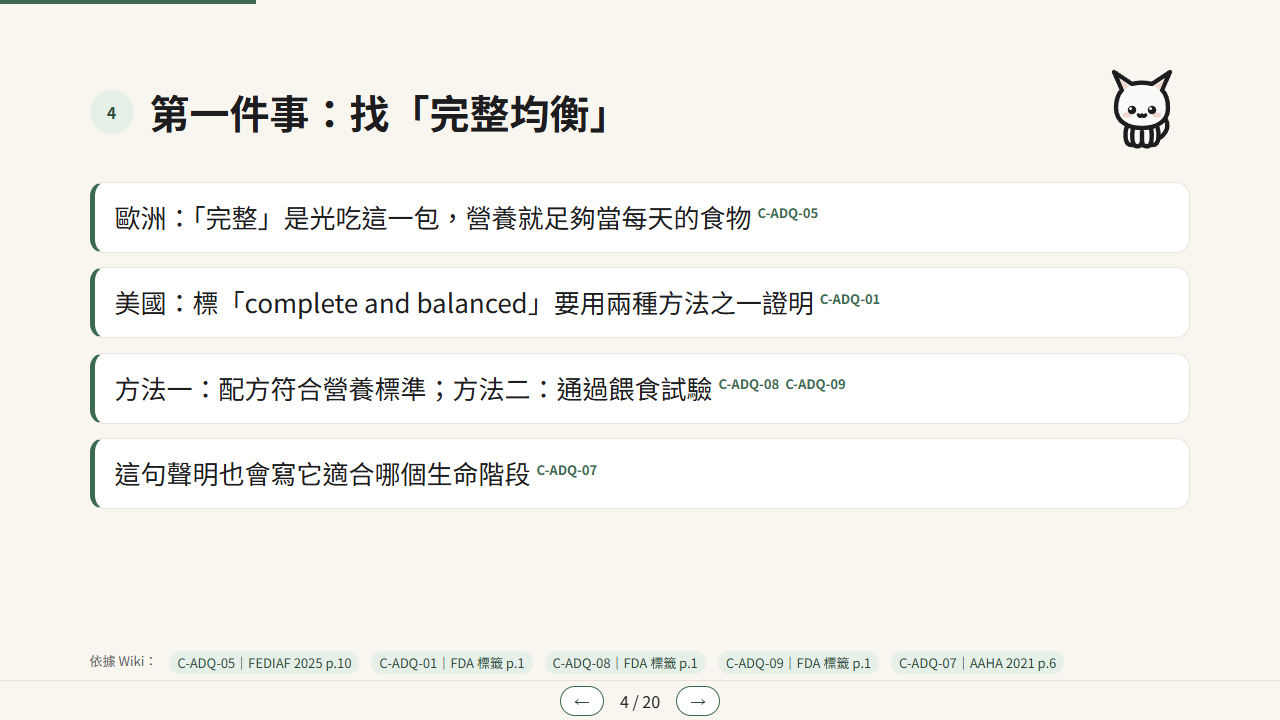
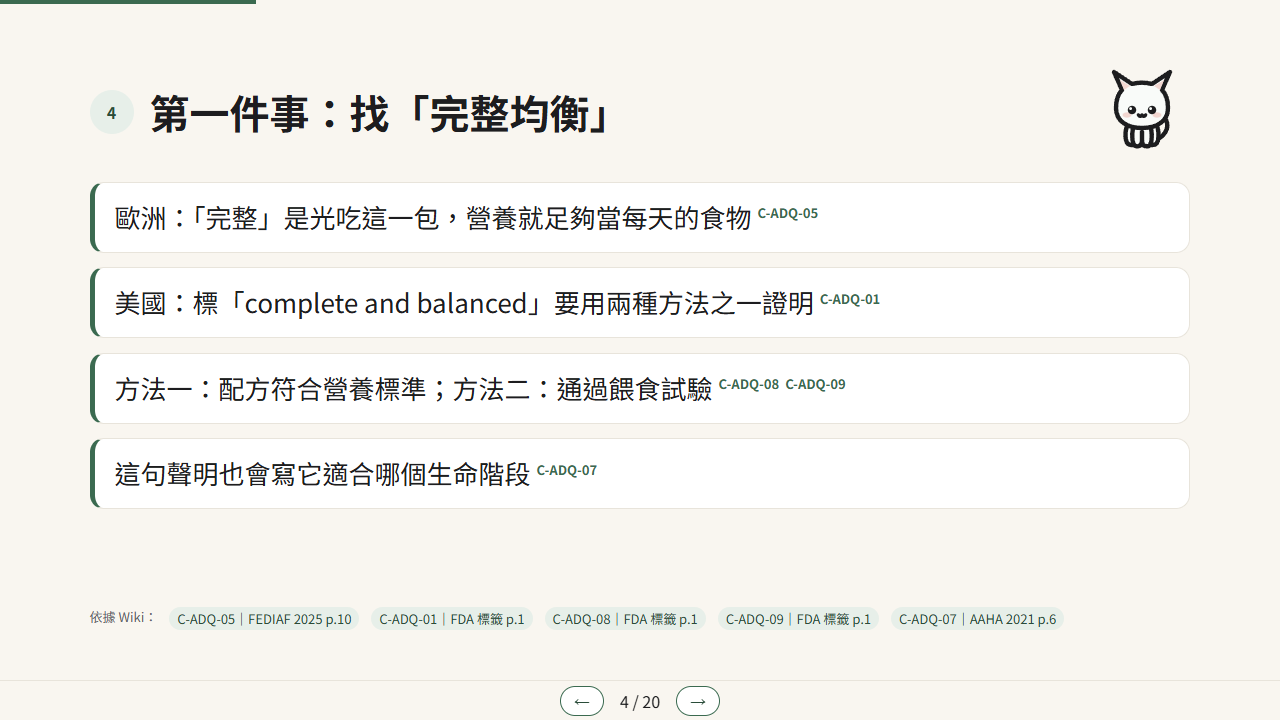
產出: 第 9 輪審查實質 0，重新產出與截圖，停在 H3

diff --git a/docs/index.html b/docs/index.html
@@ -21,7 +21,7 @@ h2{font-size:clamp(22px,3.6vw,40px);margin:0;flex:1;line-height:1.3;text-wrap:ba
 .points li{background:var(--card);border:1px solid var(--border);border-left:5px solid var(--primary);border-radius:14px;
 padding:clamp(12px,2vh,20px) 20px;font-size:clamp(17px,2.2vw,26px);line-height:1.55}
 .ref{font-size:.5em;color:var(--primary);margin-left:6px;vertical-align:super;font-weight:700;white-space:nowrap}
-.refs{position:absolute;left:clamp(20px,7vw,110px);right:clamp(20px,7vw,110px);bottom:46px;display:flex;flex-wrap:wrap;gap:6px 12px;font-size:13px;color:var(--muted)}
+.refs{margin-top:auto;padding-top:14px;display:flex;flex-wrap:wrap;gap:6px 12px;font-size:13px;color:var(--muted)}
 .refs a{color:var(--deep);text-decoration:none;background:var(--pale);padding:2px 8px;border-radius:999px}
 .title-slide{align-items:center;justify-content:center;text-align:center}
 .title-slide .cat{width:clamp(120px,18vw,200px)}
@@ -34,12 +34,28 @@ padding:clamp(12px,2vh,20px) 20px;font-size:clamp(17px,2.2vw,26px);line-height:1
 .node:not(:last-child)::after{content:" →";color:var(--gold)}
 .node.a{background:var(--pale)}.node.h{background:#f6ecd2;border-color:var(--gold)}
 .nb{display:inline-block;max-width:100%}
+.quiz{display:grid;gap:14px;max-width:1100px;margin-bottom:12px}
+.qcard{perspective:1400px}
+.qinner{display:grid;transition:transform .5s;transform-style:preserve-3d}
+.qcard.flipped .qinner{transform:rotateY(180deg)}
+.qface{grid-area:1/1;backface-visibility:hidden;-webkit-backface-visibility:hidden;background:var(--card);border:1px solid var(--border);border-left:5px solid var(--primary);border-radius:14px;padding:14px 18px}
+.qback{transform:rotateY(180deg);display:flex;flex-direction:column;gap:6px}
+.qtext{margin:0 0 10px;font-size:clamp(16px,2vw,22px);line-height:1.5}
+.opts{display:flex;flex-wrap:wrap;gap:8px}
+.opt,.again{font:inherit;font-size:clamp(15px,1.7vw,19px);min-height:44px;padding:6px 14px;border:1px solid var(--primary);border-radius:999px;background:var(--card);color:var(--deep);cursor:pointer}
+.opt:hover,.opt:focus-visible,.again:hover,.again:focus-visible{background:var(--pale)}
+.again{align-self:flex-start}
+.verdict{margin:0;font-size:clamp(18px,2.2vw,24px);font-weight:700}
+.qcard.right .verdict{color:var(--primary)} .qcard.right .qback{border-left-color:var(--primary);background:var(--pale)}
+.qcard.wrong .verdict{color:#8a5a00} .qcard.wrong .qback{border-left-color:var(--gold);background:#fbf3df}
+.answer,.why{margin:0;font-size:clamp(15px,1.8vw,20px);line-height:1.55}
+@media (prefers-reduced-motion:reduce){.qinner{transition:none}}
 .note{display:none;margin-top:18px;padding:12px 16px;border-radius:12px;background:#f6ecd2;color:var(--text2);font-size:15px;max-width:1100px}
 .show-notes .note{display:block}
 nav{position:fixed;left:0;right:0;bottom:0;height:40px;display:flex;align-items:center;justify-content:center;gap:16px;background:rgba(249,246,240,.92);border-top:1px solid var(--border);z-index:5}
 nav button{border:1px solid var(--primary);background:var(--card);color:var(--deep);border-radius:999px;min-width:44px;height:30px;font-size:16px;cursor:pointer}
 .bar{position:fixed;left:0;top:0;height:4px;background:var(--primary);transition:width .2s;z-index:6}
-@media (max-width:640px){.points li{border-left-width:4px}.refs{position:static;margin-top:18px}.slide{padding-bottom:60px}}
+@media (max-width:640px){.points li{border-left-width:4px}.refs{margin-top:18px}.slide{padding-bottom:60px}}
 @media print{.slide{display:flex!important;position:relative;page-break-after:always;height:100vh}nav,.bar{display:none}}
 </style></head>
 <body><div class="bar"></div><main class="deck"><section class="slide title-slide" data-i="1"><svg class="cat" aria-hidden="true" xmlns="http://www.w3.org/2000/svg" viewBox="0 0 48 48" fill="none" stroke="currentColor" stroke-width="2.2" stroke-linecap="round" stroke-linejoin="round">
@@ -68,7 +84,7 @@ nav button{border:1px solid var(--primary);background:var(--card);color:var(--de
                         <path d="M 22 25 Q 24 23.5 26 25" stroke-width="1.8"/>
                     </g>
                 </g>
-            </svg></header><ul class="points"><li>認識貓：嚴格肉食、常吃、單獨吃</li><li>怎麼選：完整均衡、生命階段、副食和零食</li><li>看標籤：產品名稱、成分表、乾糧和罐頭、碳水</li><li>怎麼餵：一天吃多少、看體態、怎麼餵</li><li>挑品牌：問廠商</li></ul><footer class="refs"><span>依據 Wiki：</span></footer><aside class="note">這一頁是目錄，沒有新的事實。結尾前有三題小測驗。</aside></section><section class="slide" data-i="3"><header><span class="num">3</span><h2><span class="nb">先認識貓：</span><span class="nb">嚴格肉食，</span><span class="nb">喜歡常吃、</span><span class="nb">單獨吃</span></h2><svg class="cat" aria-hidden="true" xmlns="http://www.w3.org/2000/svg" viewBox="0 0 48 48" fill="none" stroke="currentColor" stroke-width="2.2" stroke-linecap="round" stroke-linejoin="round">
+            </svg></header><ul class="points"><li>認識貓：嚴格肉食、常吃、單獨吃</li><li>怎麼選：完整均衡、生命階段、副食和零食</li><li>看標籤：產品名稱、成分表、乾糧和罐頭、碳水</li><li>怎麼餵：一天吃多少、看體態、怎麼餵</li><li>挑品牌：問廠商</li></ul><aside class="note">這一頁是目錄，沒有新的事實。結尾前有三題小測驗。</aside></section><section class="slide" data-i="3"><header><span class="num">3</span><h2><span class="nb">先認識貓：</span><span class="nb">嚴格肉食，</span><span class="nb">喜歡常吃、</span><span class="nb">單獨吃</span></h2><svg class="cat" aria-hidden="true" xmlns="http://www.w3.org/2000/svg" viewBox="0 0 48 48" fill="none" stroke="currentColor" stroke-width="2.2" stroke-linecap="round" stroke-linejoin="round">
                 <g class="anim-peek" style="transform-origin: 24px 30px;">
                     <path d="M 13 36 L 13 28 C 13 24, 14 21, 15 19 L 13 10 L 20 15 C 22.5 14.5, 25.5 14.5, 28 15 L 35 10 L 33 19 C 34 21, 35 24, 35 28 L 35 36" fill="var(--cat-white)"/>
                     <ellipse cx="17.5" cy="25.5" rx="2.2" ry="1.3" fill="var(--cat-blush)" stroke="none"/>
@@ -287,7 +303,7 @@ nav button{border:1px solid var(--primary);background:var(--card);color:var(--de
                 <line x1="39" y1="29" x2="40" y2="29" />
                 <path d="M 17 37 C 17 34.5, 20.5 34.5, 20.5 37" fill="var(--cat-white)"/>
                 <path d="M 27.5 37 C 27.5 34.5, 31 34.5, 31 37" fill="var(--cat-white)"/>
-            </svg></header><ul class="points"><li>美國規則：「含鮪魚的貓糧」和「鮪魚貓糧」，鮪魚至少各要多少？<sup class="ref">C-LBL-03</sup><sup class="ref">C-LBL-01</sup></li><li>罐頭蛋白質 8%、水分 75%；乾糧 27%、水分 10%。換成乾物誰高？<sup class="ref">C-DM-03</sup><sup class="ref">C-DM-06</sup></li><li>零食最多能佔總飲食的多少？<sup class="ref">C-TRT-01</sup></li></ul><footer class="refs"><span>依據 Wiki：</span><a href="https://github.com/Chen-MouChin/cat-food-wiki/blob/main/wiki/sources/FDA-PET-FOOD-LABELS-GENERAL.md" target="_blank" rel="noopener">C-LBL-03｜FDA 標籤 p.1</a><a href="https://github.com/Chen-MouChin/cat-food-wiki/blob/main/wiki/sources/FDA-PET-FOOD-LABELS-GENERAL.md" target="_blank" rel="noopener">C-LBL-01｜FDA 標籤 p.1</a><a href="https://github.com/Chen-MouChin/cat-food-wiki/blob/main/wiki/sources/FDA-PET-FOOD-LABELS-GENERAL.md" target="_blank" rel="noopener">C-DM-03｜FDA 標籤 p.1</a><a href="https://github.com/Chen-MouChin/cat-food-wiki/blob/main/wiki/sources/FDA-PET-FOOD-LABELS-GENERAL.md" target="_blank" rel="noopener">C-DM-06｜FDA 標籤 p.1</a><a href="https://github.com/Chen-MouChin/cat-food-wiki/blob/main/wiki/sources/AAFP-NUTRITION-2018.md" target="_blank" rel="noopener">C-TRT-01｜AAFP 2018 p.2</a></footer><aside class="note">答案：1. 含鮪魚的貓糧只要 3%，鮪魚貓糧要 95%。2. 罐頭 32%、乾糧 30%，罐頭比較高。3. 不超過 10%。</aside></section><section class="slide" data-i="18"><header><span class="num">18</span><h2><span class="nb">總結：</span><span class="nb">買貓糧前的檢查清單</span></h2><svg class="cat" aria-hidden="true" xmlns="http://www.w3.org/2000/svg" viewBox="0 0 48 48" fill="none" stroke="currentColor" stroke-width="2.2" stroke-linecap="round" stroke-linejoin="round">
+            </svg></header><div class="quiz"><div class="qcard"><div class="qinner"><div class="qface qfront"><p class="qtext"><b>第 1 題</b>　美國規則：「含鮪魚的貓糧」和「鮪魚貓糧」，鮪魚至少各要多少？<sup class="ref">C-LBL-03</sup><sup class="ref">C-LBL-01</sup></p><div class="opts"><button type="button" class="opt" data-ok="0">A. 兩個都要 95%</button><button type="button" class="opt" data-ok="1">B. 含鮪魚的貓糧 3%，鮪魚貓糧 95%</button><button type="button" class="opt" data-ok="0">C. 含鮪魚的貓糧 25%，鮪魚貓糧 95%</button></div></div><div class="qface qback" aria-live="polite"><p class="verdict"></p><p class="answer">正確答案：B. 含鮪魚的貓糧 3%，鮪魚貓糧 95%</p><p class="why">名稱寫「含」只要 3%；直接叫「鮪魚貓糧」要 95%（不算加工用水）。25% 是「鮪魚晚餐」這類名稱的門檻<sup class="ref">C-LBL-03</sup><sup class="ref">C-LBL-01</sup><sup class="ref">C-LBL-02</sup></p><button type="button" class="again">再答一次</button></div></div></div><div class="qcard"><div class="qinner"><div class="qface qfront"><p class="qtext"><b>第 2 題</b>　罐頭蛋白質 8%、水分 75%；乾糧 27%、水分 10%。換成乾物誰高？<sup class="ref">C-DM-03</sup><sup class="ref">C-DM-06</sup></p><div class="opts"><button type="button" class="opt" data-ok="0">A. 乾糧，因為 27% 比 8% 高</button><button type="button" class="opt" data-ok="1">B. 罐頭，換成乾物是 32% 對 30%</button><button type="button" class="opt" data-ok="0">C. 一樣高</button></div></div><div class="qface qback" aria-live="polite"><p class="verdict"></p><p class="answer">正確答案：B. 罐頭，換成乾物是 32% 對 30%</p><p class="why">罐頭乾物 25%，8 ÷ 25 × 100 = 32%；乾糧乾物 90%，27 ÷ 90 × 100 = 30%<sup class="ref">C-DM-02</sup><sup class="ref">C-DM-03</sup><sup class="ref">C-DM-06</sup></p><button type="button" class="again">再答一次</button></div></div></div><div class="qcard"><div class="qinner"><div class="qface qfront"><p class="qtext"><b>第 3 題</b>　零食最多能佔總飲食的多少？<sup class="ref">C-TRT-01</sup></p><div class="opts"><button type="button" class="opt" data-ok="1">A. 10%</button><button type="button" class="opt" data-ok="0">B. 25%</button><button type="button" class="opt" data-ok="0">C. 50%</button></div></div><div class="qface qback" aria-live="polite"><p class="verdict"></p><p class="answer">正確答案：A. 10%</p><p class="why">零食不超過總飲食的 10%，零食的熱量也要算進每天的份量<sup class="ref">C-TRT-01</sup></p><button type="button" class="again">再答一次</button></div></div></div></div><footer class="refs"><span>依據 Wiki：</span><a href="https://github.com/Chen-MouChin/cat-food-wiki/blob/main/wiki/sources/FDA-PET-FOOD-LABELS-GENERAL.md" target="_blank" rel="noopener">C-LBL-03｜FDA 標籤 p.1</a><a href="https://github.com/Chen-MouChin/cat-food-wiki/blob/main/wiki/sources/FDA-PET-FOOD-LABELS-GENERAL.md" target="_blank" rel="noopener">C-LBL-01｜FDA 標籤 p.1</a><a href="https://github.com/Chen-MouChin/cat-food-wiki/blob/main/wiki/sources/FDA-PET-FOOD-LABELS-GENERAL.md" target="_blank" rel="noopener">C-DM-03｜FDA 標籤 p.1</a><a href="https://github.com/Chen-MouChin/cat-food-wiki/blob/main/wiki/sources/FDA-PET-FOOD-LABELS-GENERAL.md" target="_blank" rel="noopener">C-DM-06｜FDA 標籤 p.1</a><a href="https://github.com/Chen-MouChin/cat-food-wiki/blob/main/wiki/sources/AAFP-NUTRITION-2018.md" target="_blank" rel="noopener">C-TRT-01｜AAFP 2018 p.2</a><a href="https://github.com/Chen-MouChin/cat-food-wiki/blob/main/wiki/sources/FDA-PET-FOOD-LABELS-GENERAL.md" target="_blank" rel="noopener">C-LBL-02｜FDA 標籤 p.1</a><a href="https://github.com/Chen-MouChin/cat-food-wiki/blob/main/wiki/sources/FDA-PET-FOOD-LABELS-GENERAL.md" target="_blank" rel="noopener">C-DM-02｜FDA 標籤 p.1</a></footer><aside class="note">點選項，卡片會翻面顯示答對或答錯和解析；按「再答一次」翻回來。</aside></section><section class="slide" data-i="18"><header><span class="num">18</span><h2><span class="nb">總結：</span><span class="nb">買貓糧前的檢查清單</span></h2><svg class="cat" aria-hidden="true" xmlns="http://www.w3.org/2000/svg" viewBox="0 0 48 48" fill="none" stroke="currentColor" stroke-width="2.2" stroke-linecap="round" stroke-linejoin="round">
                 <path class="anim-tail" style="transform-origin: 32px 38px;" d="M 32 38 C 40 38, 43 31, 39 26 C 37 24, 35 26, 36 29" />
                 <path d="M 16.5 26 C 13.5 31, 13.5 40, 18 40 L 30 40 C 34.5 40, 34.5 31, 31.5 26" fill="var(--cat-white)"/>
                 <path d="M 19 30 C 18 34, 18 40.8, 21 40.8 C 23.2 40.8, 24 39.5, 24 38 C 24 39.5, 24.8 40.8, 27 40.8 C 30 40.8, 30 34, 29 30" fill="var(--cat-white)"/>
@@ -307,7 +323,14 @@ const S=[...document.querySelectorAll('.slide')],bar=document.querySelector('.ba
 let i=Math.max(0,Math.min(S.length-1,(parseInt(location.hash.slice(1))||1)-1));
 function go(n){i=Math.max(0,Math.min(S.length-1,n));S.forEach((s,k)=>s.classList.toggle('on',k===i));
 bar.style.width=((i+1)/S.length*100)+'%';cnt.textContent=(i+1)+' / '+S.length;history.replaceState(null,'','#'+(i+1));}
-document.addEventListener('keydown',e=>{if(['ArrowRight','PageDown',' '].includes(e.key)){e.preventDefault();go(i+1)}
+document.querySelectorAll('.qcard').forEach(c=>{const v=c.querySelector('.verdict');
+c.querySelectorAll('.opt').forEach(b=>b.onclick=()=>{const ok=b.dataset.ok==='1';c.classList.remove('right','wrong');
+c.classList.add('flipped',ok?'right':'wrong');v.textContent=(ok?'答對了！':'答錯了')+'　你選的是 '+b.textContent;
+c.querySelector('.qfront').setAttribute('aria-hidden','true');c.querySelector('.qback').removeAttribute('aria-hidden');c.querySelector('.again').focus()});
+c.querySelector('.qback').setAttribute('aria-hidden','true');
+c.querySelector('.again').onclick=()=>{c.classList.remove('flipped');c.querySelector('.qfront').removeAttribute('aria-hidden');
+c.querySelector('.qback').setAttribute('aria-hidden','true');c.querySelector('.opt').focus()}});
+document.addEventListener('keydown',e=>{if(e.target.closest&&e.target.closest('button')&&[' ','Enter'].includes(e.key))return;if(['ArrowRight','PageDown',' '].includes(e.key)){e.preventDefault();go(i+1)}
 else if(['ArrowLeft','PageUp'].includes(e.key)){e.preventDefault();go(i-1)}else if(e.key==='n'||e.key==='N'){document.body.classList.toggle('show-notes')}});
 document.querySelector('.prev').onclick=()=>go(i-1);document.querySelector('.next').onclick=()=>go(i+1);
 let x0=null;document.addEventListener('touchstart',e=>{x0=e.touches[0].clientX},{passive:true});

diff --git a/runs/gates/H3_2026-11-20-2.md b/runs/gates/H3_2026-11-20-2.md
@@ -1,0 +1,93 @@
+# H3 人工審核最終成果（執行 2026-11-20-2）
+
+請看成果本身：簡報（直接開 `docs/index.html`，按 N 看講者備註）、截圖，以及下面這次執行的摘要。
+截圖在 `runs/shots/2026-11-20-2/`（23 張）。
+「判定：」填 **OK**，或 **NG 內容 原因**（退回 S8）、**NG Wiki 原因**（退回 S3）、**NG 版面 原因**（退回 S11）。
+
+這次執行經過的節點：
+
+| 時間 | 節點 | 類型 | 結果 | 下一步 | 說明 |
+|---|---|---|---|---|---|
+| 2026-11-20 10:28 | H0 人工審核流程框架 | human | OK | S0 | runs/gates/H0_2026-11-20-2.md |
+| 2026-11-20 10:28 | S0 討論範圍與來源 | agent | 完成 | S1 | 主題、聽眾、來源沿用 11/19 的討論（wiki/log.md 第一筆）；這次沒有新主題或新來源 |
+| 2026-11-20 10:28 | S1 取得原文 | agent | 完成 | S2 | 9 份原文已在 raw/，不重抓 |
+| 2026-11-20 10:28 | S2 抽逐頁文字 | auto | OK | S3 | 逐頁文字 9 份 |
+| 2026-11-20 10:28 | S3 Ingest 寫主張 | agent | 完成 | S4 | 主張 61 條，這次沒有新增或修改 |
+| 2026-11-20 10:28 | S4 Wiki 檢查 lint | auto | OK | S5 | 主張 61 條，原句比對成功 61 條；FAIL 0，WARN 0 |
+| 2026-11-20 10:28 | S5 AI 逐條對照意思 | agent | 完成 | S6 | 沿用 11/19 的逐條對照（runs/lint_04_semantic_fix.txt）；此後主張沒有再改 |
+| 2026-11-20 10:28 | S6 整理主題頁 | agent | 完成 | S6L | 主題頁 7 頁，這次沒有修改 |
+| 2026-11-20 10:28 | S6L 主題頁檢查 lint | auto | OK | S7 | 主張 61 條，原句比對成功 61 條；FAIL 0，WARN 0 |
+| 2026-11-20 10:28 | S7 查 Wiki 排大綱 | agent | 完成 | S8 | outline.md 沿用，這次沒有修改 |
+| 2026-11-20 10:28 | S8 生成簡報 | agent | 完成 | S9 | deck.md 沿用審查第 4 輪後的版本，這次沒有修改 |
+| 2026-11-20 10:28 | S9 簡報檢查 | auto | OK | S10 | 簡報 18 頁，引用 53 條主張（Wiki 共 61 條）；FAIL 0 |
+| 2026-11-20 10:28 | S10 獨立審查 agent | agent | FAIL：實質問題：Wiki 缺資料 | S3 | runs/review_05.md：實質 8、輕微 24 |
+| 2026-11-20 10:30 | S3 Ingest 寫主張 | agent | 完成 | S4 | 依審查第 5 輪改 C-FEED-01、C-LBL-06、C-BRD-01～03（實質）與 C-LBL-03、C-ADQ-04、C-CARB-06、C-KCAL-02、C-BCS-01（輕微）；新增 C-LBL-07、08（FDA 肉粉與乾物比較）、C-BCS-07～09（WSAVA 2011 體態評分） |
+| 2026-11-20 10:30 | S4 Wiki 檢查 lint | auto | FAIL：原句對不到／數字不一致 | S3 | C-BCS-07 原句在 p.3，不是 p.2；C-BCS-08 原句在 p.3，不是 p.2；C-BCS-09 原句在 p.3，不是 p.2 |
+| 2026-11-20 10:30 | S3 Ingest 寫主張 | agent | 完成 | S4 | C-BCS-07～09 頁碼改成 p.3（WSAVA 2011 的 BCS 段落在第 3 頁） |
+| 2026-11-20 10:30 | S4 Wiki 檢查 lint | auto | OK | S5 | 主張 66 條，原句比對成功 66 條；FAIL 0，WARN 5 |
+| 2026-11-20 10:30 | S5 AI 逐條對照意思 | agent | FAIL：中文超出原句 | S3 | C-BCS-08：「也就是分數越高越胖」是推論，原句只說有些極度肥胖的病例超過 9/9，而且是「有些」不是全部；C-CARB-06：中文的「依目前發表的證據，看起來」不在引用的原句裡，要把原句往前抄；C-LBL-07：中文用「可能」，原句是在那個例子裡「可以看出」較多，語氣對不上 |
+| 2026-11-20 10:30 | S3 Ingest 寫主張 | agent | 完成 | S4 | 照 S5 改 C-BCS-08（刪推論、改成「有些」）、C-CARB-06（原句往前抄到 Based on currently published evidence）、C-LBL-07（語氣對齊原句） |
+| 2026-11-20 10:30 | S4 Wiki 檢查 lint | auto | OK | S5 | 主張 66 條，原句比對成功 66 條；FAIL 0，WARN 5 |
+| 2026-11-20 10:30 | S5 AI 逐條對照意思 | agent | 完成 | S6 | 這次改過與新增的 15 條逐條對照：前一輪的 3 條已修正，其餘中文都在原句範圍內 |
+| 2026-11-20 10:31 | S6 整理主題頁 | agent | 完成 | S6L | 依新主張更新 5 個主題頁：選品牌拿掉題號、肉粉與乾物比較（C-LBL-06～08）、體態評分（C-BCS-07～09）、C-FEED-01、C-CARB-06、C-KCAL-02 的措辭 |
+| 2026-11-20 10:31 | S6L 主題頁檢查 lint | auto | OK | S7 | 主張 66 條，原句比對成功 66 條；FAIL 0，WARN 0 |
+| 2026-11-20 10:31 | S7 查 Wiki 排大綱 | agent | 完成 | S8 | outline 第 8 頁加 C-LBL-07、08，第 14 頁加 C-BCS-07～09（query_wiki.py 查「肉粉 乾物」「體態 脂肪」） |
+| 2026-11-20 10:32 | S8 生成簡報 | agent | 完成 | S9 | 依審查第 5 輪改 12 頁：實質 R1～R4（肉粉、熱量頁、24 小時、附錄流程）＋輕微 R9～R27 中 17 項；附錄流程改由 run_graph 的節點產生 |
+| 2026-11-20 10:32 | S9 簡報檢查 | auto | OK | S10 | 簡報 18 頁，引用 56 條主張（Wiki 共 66 條）；FAIL 0 |
+| 2026-11-20 10:36 | S10 獨立審查 agent | agent | FAIL：實質問題：Wiki 缺資料 | S3 | runs/review_05.md：實質 8、輕微 24 |
+| 2026-11-20 10:37 | S10 獨立審查 agent | agent | 撤銷上一筆 | S10 | 10:36 那筆是第 5 輪審查 agent 誤用舊審查檔（review_05，審的是修改前的簡報）標記的；撤銷，S10→S3 次數改回 1，改用審新版的 review_06 |
+| 2026-11-20 10:37 | S10 獨立審查 agent | agent | FAIL：實質問題：Wiki 缺資料 | S3 | runs/review_06.md：實質 4、輕微 23 |
+| 2026-11-20 10:38 | S3 Ingest 寫主張 | agent | 完成 | S4 | 依審查第 6 輪：C-BCS-08 補但書（沒有驗證過超過 9 分的系統）；C-KCAL-06、C-BRD-01 原句或中文對齊；C-LBL-08、C-BCS-06、C-FEED-06 措辭；新增 C-DM-07（比較要同水分基礎）、C-CARB-09（歐盟標籤）、C-CARB-10（灰分）、C-FEED-09（益智餵食器是什麼） |
+| 2026-11-20 10:38 | S4 Wiki 檢查 lint | auto | OK | S5 | 主張 70 條，原句比對成功 70 條；FAIL 0，WARN 4 |
+| 2026-11-20 10:38 | S5 AI 逐條對照意思 | agent | 完成 | S6 | 這次改過與新增的 9 條逐條對照，中文都在原句範圍內 |
+| 2026-11-20 10:38 | S6 整理主題頁 | agent | 完成 | S6L | 主題頁：放入 C-DM-07、C-CARB-09、10、C-FEED-09；照審查第 6 輪拿掉沒有出處的「現名 FelineVMA」「公式不同」「名稱差一個字」與碳水頁最後一句，砂盆改放在「餵食點」小節 |
+| 2026-11-20 10:38 | S6L 主題頁檢查 lint | auto | OK | S7 | 主張 70 條，原句比對成功 70 條；FAIL 0，WARN 0 |
+| 2026-11-20 10:39 | S7 查 Wiki 排大綱 | agent | 完成 | S8 | outline 第 9 頁加 C-DM-07、第 11 頁加 C-CARB-09、10、第 15 頁加 C-FEED-09 |
+| 2026-11-20 10:39 | S8 生成簡報 | agent | 完成 | S9 | 依審查第 6 輪改 11 頁：實質 R1（4 公斤條件）、R2（9 分但書）；輕微：美國／歐洲／歐盟標示、處方食品例外、機構全名、FDA 例子寫進備註、灰分、益智餵食器、營養專家資格、附錄說明 |
+| 2026-11-20 10:39 | S9 簡報檢查 | auto | OK | S10 | 簡報 18 頁，引用 60 條主張（Wiki 共 70 條）；FAIL 0 |
+| 2026-11-20 10:45 | S10 獨立審查 agent | agent | FAIL：實質問題：Wiki 缺資料 | S3 | runs/review_07.md：實質 1、輕微 18 |
+| 2026-11-20 10:45 | S3 Ingest 寫主張 | agent | 完成 | S4 | 依審查第 7 輪：新增 C-LBL-09（FDA 例子的兩款成分表設定）；C-LBL-07 改成「對手那款／第一款」；C-FEED-09「推」改「撥弄」；主題頁 4 處措辭對齊主張 |
+| 2026-11-20 10:45 | S4 Wiki 檢查 lint | auto | OK | S5 | 主張 71 條，原句比對成功 71 條；FAIL 0，WARN 1 |
+| 2026-11-20 10:45 | S5 AI 逐條對照意思 | agent | 完成 | S6 | C-LBL-09、C-LBL-07、C-FEED-09 逐條對照，中文都在原句範圍內 |
+| 2026-11-20 10:45 | S6 整理主題頁 | agent | 完成 | S6L | reading-labels 加 C-LBL-09 的例子設定、C-LBL-07／08 改成「對手那款」；choosing-a-brand、calories、complete-and-balanced 措辭對齊主張 |
+| 2026-11-20 10:45 | S6L 主題頁檢查 lint | auto | OK | S7 | 主張 71 條，原句比對成功 71 條；FAIL 0，WARN 0 |
+| 2026-11-20 10:46 | S7 查 Wiki 排大綱 | agent | 完成 | S8 | outline 第 8 頁加 C-LBL-09，第 18 頁加 C-DM-07 |
+| 2026-11-20 10:46 | S8 生成簡報 | agent | 完成 | S9 | 依審查第 7 輪：第 8 頁 FDA 例子改用 C-LBL-09 當出處；AAFP 補適用對象；乾糧定義標 FEDIAF；第 16 頁標題；第 18 頁改引 C-DM-07；附錄與流程圖圖例用語 |
+| 2026-11-20 10:46 | S9 簡報檢查 | auto | OK | S10 | 簡報 18 頁，引用 61 條主張（Wiki 共 71 條）；FAIL 0 |
+| 2026-11-20 10:52 | S10 獨立審查 agent | agent | OK（實質 0、輕微 23） | S11 | runs/review_08.md |
+| 2026-11-20 10:52 | S11 產出 HTML | auto | OK | S12 | 完成：docs/index.html，20 頁（含出處、流程兩頁附錄），引用 61 條主張 |
+| 2026-11-20 10:52 | S12 截圖 電腦/手機 | auto | OK | H3 | 23 張截圖存在 runs/shots/2026-11-20-2/ |
+| 2026-11-20 11:10 | H3 人工審核最終成果 | human | FAIL：不通過：內容 | S8 | NG 內容 小測驗列了選項但沒有互動，應該要點選之後能翻轉，得到正確與否以及解析（負責人判定，口頭；agent 照原話寫入） |
+| 2026-11-20 11:12 | S8 生成簡報 | agent | 完成 | S9 | 照 H3 負責人判定：小測驗改成可點選的翻面卡（每題 3 個選項，點了翻面顯示答對／答錯、正確答案和解析，解析附主張編號）；check_slides 加小測驗規則；出處列改成跟在內容後面，修第 17、20 頁重疊；目錄頁不再顯示空的出處列 |
+| 2026-11-20 11:12 | S9 簡報檢查 | auto | OK | S10 | 簡報 18 頁，引用 61 條主張（Wiki 共 71 條）；FAIL 0 |
+| 2026-11-20 11:19 | S10 獨立審查 agent | agent | OK（實質 0、輕微 10） | S11 | runs/review_09.md |
+| 2026-11-20 11:19 | S11 產出 HTML | auto | OK | S12 | 完成：docs/index.html，20 頁（含出處、流程兩頁附錄），引用 61 條主張 |
+| 2026-11-20 11:20 | S12 截圖 電腦/手機 | auto | OK | H3 | 23 張截圖存在 runs/shots/2026-11-20-2/ |
+
+### [PUBLISH] 這一版可以發佈嗎？
+
+- desktop_01.png
+- desktop_02.png
+- desktop_03.png
+- desktop_04.png
+- desktop_05.png
+- desktop_06.png
+- desktop_07.png
+- desktop_08.png
+- desktop_09.png
+- desktop_10.png
+- desktop_11.png
+- desktop_12.png
+- desktop_13.png
+- desktop_14.png
+- desktop_15.png
+- desktop_16.png
+- desktop_17.png
+- desktop_18.png
+- desktop_19.png
+- desktop_20.png
+- mobile_01.png
+- mobile_02.png
+- mobile_17.png
+
+判定：

diff --git a/runs/review_09.md b/runs/review_09.md
@@ -1,0 +1,38 @@
+# 獨立審查 第 9 輪（2026-11-20，H3 退回第 17 頁小測驗之後）
+
+審查者沒有參與撰寫。這一輪沒有修改任何既有檔案，本檔是唯一新建在專案裡的檔案；沒有直接執行 scripts/ 裡的程式，也沒有碰 run_graph.py 的流程。
+
+做法：
+- 內容：逐題讀 slides/deck.md 第 17 頁的題目、選項、正確答案和解析，對照 slides/outline.md 第 17 列，以及 wiki/sources/ 的 C-LBL-01～03、C-DM-02、03、06、C-TRT-01。再回 raw/FDA-PET-FOOD-LABELS-GENERAL.txt p.1（95%、25%、"with" 3% 三條命名規則和乾物換算的例子）和 raw/AAFP-NUTRITION-2018.txt p.2（零食 10%）看上下文。也確認三題分別只考第 7、10、6 頁教過的內容。
+- 程式：讀 scripts/check_slides.py 的 parse_deck()、run() 的小測驗規則，以及 scripts/build_slides.py 的 slide_html()、quiz_card()、CSS 和 JS。
+- 實測：在 scratchpad 寫了一支小程式 import build_slides，把 DOCS 改到 scratchpad\review9\ 再呼叫 main()，產生 HTML。main() 會先跑 lint_wiki.run()（沒有加 write_json，所以不會寫 runs/last_lint.json）和 check_slides.run()，結果是 FAIL 0，20 頁。接著用 Edge 無頭模式加上 DevTools 協定，送出真的滑鼠、觸控和鍵盤事件，測了這些項目：
+  - 點選項：答對、答錯都會翻面，顏色和文字都對。
+  - 「再答一次」能翻回來，焦點會回到 A。
+  - 在選項或按鈕上按空白鍵、Enter 不會換頁；焦點不在按鈕上時，空白鍵和方向鍵照常換頁。
+  - Tab 和 Shift+Tab 的焦點順序。
+  - 無障礙樹（accessibility tree）。
+  - 開啟減少動畫後 transition 是 0s，翻面正常。
+  - 手機 390×844 用觸控點選、翻面、翻回都正常。
+- 版面：在 1280×900、1366×768、1280×720、1024×768、390×844、360×640 六種尺寸逐頁量測，看各區塊有沒有互相重疊、內容超出多少、出處列和導覽列的距離，並截圖對照。舊的 docs/index.html 只拿來比對出處列以前的 CSS（position:absolute）。
+
+結果：
+- 小測驗三題的題目、正確答案和解析都對得上主張和原文，錯誤選項也沒有「其實也說得通」的情形。
+- 互動功能在滑鼠、觸控、鍵盤下都能正常使用，空白鍵和 Enter 也不會誤換頁。
+- 出處列改成跟在內容後面之後，六種尺寸都沒有區塊互相重疊；以前內容一長就蓋到出處列的問題也沒了。
+- 沒有發現實質問題。下面都是輕微問題，主要是解析對錯誤選項交代得不夠、看不見的那一面仍然拿得到焦點、報讀器不一定念出結果，以及第 17 頁在常見筆電尺寸要捲動。
+- 第 8 輪還沒處理的輕微問題，這一輪沒有重複列出。
+
+## 問題清單
+
+- [R1]（簡報）（輕微）第 17 頁第 2 題解析：只列出換算式，沒有說明為什麼 A「乾糧，因為 27% 比 8% 高」是錯的。標籤百分比含水，罐頭水分多，直接比會低估罐頭。讀者答錯翻面後，只看到一串算式。建議解析加一句「標籤的數字含水，罐頭水分多；要換成同樣的水分基礎再比 {C-DM-07}」，並在大綱第 17 列補上 C-DM-07（加了這句還在 90 字上限內）。
+- [R2]（簡報）（輕微）第 17 頁第 3 題解析：只重述「不超過 10%」，沒有交代 25%、50% 為什麼不對；選 25% 的人可能是跟第 7 頁「鮪魚晚餐 25%」搞混了，解析也沒有點出來。建議加上「WSAVA 也把零食超過總熱量 10% 列為風險因子 {C-TRT-03}；25% 是產品名稱的門檻，不是零食」，大綱第 17 列補上 C-TRT-03。
+- [R3]（Wiki）（輕微）C-LBL-02：第 1 題解析說「25% 是『鮪魚晚餐』這類名稱的門檻」，靠的是「Dinner」這個字。但引用的原句停在「…the name must include a qualifying descriptive term」，後面的「such as "Dinner" as in "Beef Dinner for Dogs."」不在原句裡（第 8 輪 R12 指出的 Formula 也是同一個缺口）。建議原句延長，把 Dinner 的例子和下一句的 "Formula" 都抄進來。
+- [R4]（簡報）（輕微）第 17 頁（build_slides.py 的 JS 和 CSS）：看不見的那一面還是可以用 Tab 移到。實測時，還沒作答的卡片，Tab 會在背面那顆看不見、而且 aria-hidden 的「再答一次」停一下；翻面後按 Shift+Tab，會停在正面看不見的 A、B、C，這時按 Enter 會在看不見的情況下重新作答。焦點框看不到，aria-hidden 裡面也有能取得焦點的元素。建議翻面時，把藏起來的那一面設成 `inert`（取代或搭配 aria-hidden），翻回來時再切換。
+- [R5]（簡報）（輕微）第 17 頁（JS 的點選處理）：verdict 的文字是在 .qback 還是 aria-hidden 的時候寫進去的，接著才移除 aria-hidden，然後馬上把焦點移到「再答一次」。所以報讀器通常只念「再答一次 按鈕」，答對或答錯不一定會念出來（雖然可以往上瀏覽讀到）。建議先移除 aria-hidden，下一個 frame 再寫入 verdict；或把 live region 放在一個不會被 aria-hidden 包住、一直存在的元素上；並讓「再答一次」加上 aria-describedby，指向 verdict 和解析。
+- [R6]（簡報）（輕微）第 17 頁 quiz_card()：背面沒有題號，也沒有題目，只寫「答錯了　你選的是 B. 25%」。在手機上捲動時，或用報讀器時，分不出是哪一題。建議背面的 verdict 前面加上「第 k 題」，或放一行縮短的題目。
+- [R7]（簡報）（輕微）第 17 頁（CSS 的 @media print）：列印或存成 PDF 時，背面因為 rotateY(180deg) 加上 backface-visibility:hidden 不會印出來，正確答案和解析都不見了。建議在 print 樣式裡把 .qinner 和 .qback 的 transform 設成 none，讓背面接在正面下方，或另外印出「正確答案：…」。
+- [R8]（簡報）（輕微）第 17 頁版面：兩面疊在同一格，所以正面卡片會被背面撐高，正面下方約有三分之一是空白。結果在 1366×768 和 1280×720，還沒作答就超出一個畫面（分別多 104px、151px）：第 3 題貼著導覽列，出處列落在半透明的導覽列底下，只露出一截。390×844 也要捲 182px。建議正面不要保留背面的高度（例如背面改成 position:absolute; inset:0; overflow:auto，或翻面時才讓卡片長高），或者把導覽列的背景改成不透明。
+- [R9]（簡報）（輕微）第 20 頁「這份簡報引用其中 n 條」：build_slides.py 的 main() 算 used 時，只算各頁的 points，沒有算小測驗解析引用的主張，和 check_slides.run() 的算法不一致。目前兩邊都是 61 條，因為 C-LBL-02、C-DM-02 在別頁也有用到；以後如果有主張只出現在解析裡，第 20 頁的數字就會少算。建議 main() 的 used 也加上 s["quiz"] 的 why。
+- [R10]（簡報）（輕微）第 17 頁（check_slides.py 的 parse_deck()）：遇到縮排的「- [ ]」「- 解析：」時，如果前面還沒有題目，或「layout: quiz」寫在第一題後面，這幾行會被默默略過，不會報 FAIL；選項文字也沒有字數上限。建議縮排行如果沒有掛到任何題目就報 FAIL，選項也設字數上限（例如 30 字）。
+
+總結：實質 0、輕微 10

diff --git a/runs/graph_log.md b/runs/graph_log.md
@@ -75,3 +75,6 @@
 | 2026-11-20 11:10 | H3 人工審核最終成果 | human | FAIL：不通過：內容 | S8 | NG 內容 小測驗列了選項但沒有互動，應該要點選之後能翻轉，得到正確與否以及解析（負責人判定，口頭；agent 照原話寫入） |
 | 2026-11-20 11:12 | S8 生成簡報 | agent | 完成 | S9 | 照 H3 負責人判定：小測驗改成可點選的翻面卡（每題 3 個選項，點了翻面顯示答對／答錯、正確答案和解析，解析附主張編號）；check_slides 加小測驗規則；出處列改成跟在內容後面，修第 17、20 頁重疊；目錄頁不再顯示空的出處列 |
 | 2026-11-20 11:12 | S9 簡報檢查 | auto | OK | S10 | 簡報 18 頁，引用 61 條主張（Wiki 共 71 條）；FAIL 0 |
+| 2026-11-20 11:19 | S10 獨立審查 agent | agent | OK（實質 0、輕微 10） | S11 | runs/review_09.md |
+| 2026-11-20 11:19 | S11 產出 HTML | auto | OK | S12 | 完成：docs/index.html，20 頁（含出處、流程兩頁附錄），引用 61 條主張 |
+| 2026-11-20 11:20 | S12 截圖 電腦/手機 | auto | OK | H3 | 23 張截圖存在 runs/shots/2026-11-20-2/ |
